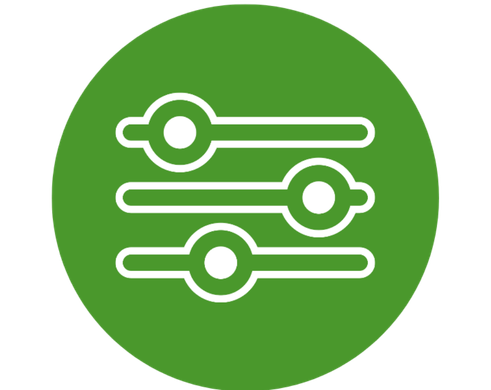
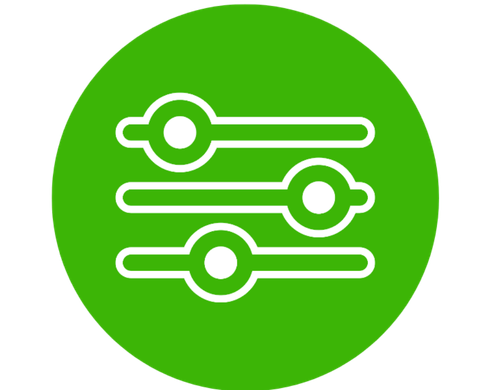
Cambiar el verde

diff --git a/app/src/main/java/com/lasante/tvkiosk/ui/components/SmartProductSearchBar.kt b/app/src/main/java/com/lasante/tvkiosk/ui/components/SmartProductSearchBar.kt
@@ -66,6 +66,7 @@ import coil.compose.AsyncImage
 import coil.request.ImageRequest
 import com.lasante.tvkiosk.data.Product
 import com.lasante.tvkiosk.ui.layout.Tv66Reference
+import com.lasante.tvkiosk.ui.theme.LaSanteGreen
 import com.lasante.tvkiosk.ui.theme.LaSanteText
 import com.lasante.tvkiosk.ui.theme.LaSanteTextSecondary
 import com.lasante.tvkiosk.ui.theme.LaSanteWhite
@@ -75,9 +76,6 @@ import java.text.Normalizer
 import java.util.Locale
 import kotlin.math.roundToInt
 import kotlinx.coroutines.delay
-
-/** Verde del chip de lupa — alineado con VER TODOS / marca (#2FAD11). */
-private val SearchChromeGreen = Color(0xFF2FAD11)
 
 @Immutable
 data class ProductSearchBarMetrics(
@@ -409,7 +407,7 @@ fun SmartProductSearchBar(
                         // Evita que el IME intente enlazarse; el texto lo escribe el teclado virtual.
                         readOnly = true,
                         textStyle = fieldTextStyle,
-                        cursorBrush = SolidColor(SearchChromeGreen),
+                        cursorBrush = SolidColor(LaSanteGreen),
                         modifier = Modifier
                             .fillMaxSize()
                             .focusRequester(focusRequester)
@@ -462,7 +460,7 @@ fun SmartProductSearchBar(
                     .width(metrics.greenWidth)
                     .fillMaxHeight()
                     .clip(greenShape)
-                    .background(SearchChromeGreen)
+                    .background(LaSanteGreen)
                     .clickableWithSound(enabled = enabled) { focusSearchField() },
                 contentAlignment = Alignment.Center,
             ) {

diff --git a/app/src/main/java/com/lasante/tvkiosk/ui/theme/Color.kt b/app/src/main/java/com/lasante/tvkiosk/ui/theme/Color.kt
@@ -2,9 +2,9 @@ package com.lasante.tvkiosk.ui.theme
 
 import androidx.compose.ui.graphics.Color
 
-// === NUEVA PALETA DE COLORES LASANTÉ (Basada en diseños finales) ===
-val LaSanteGreen = Color(0xFF7CB342) // Verde lima/oliva del diseño
-val LaSanteGreenDark = Color(0xFF558B2F)
+// === Paleta La Santé — verde de marca unificado (#2FAD11) ===
+val LaSanteGreen = Color(0xFF2FAD11)
+val LaSanteGreenDark = Color(0xFF2FAD11)
 val LaSanteBackground = Color(0xFFF5F5F5) // Gris muy claro casi blanco
 val LaSanteWhite = Color(0xFFFFFFFF)
 val LaSanteText = Color(0xFF424242)
@@ -18,7 +18,7 @@ val ShelfShadowColor = Color(0x20000000)
 
 // Scrollbar
 val ScrollTrackColor = Color(0xFFEEEEEE)
-val ScrollThumbColor = Color(0xFF8BC34A)
+val ScrollThumbColor = Color(0xFF2FAD11)
 
 // Specialty Colors (Legacy/Compat)
 val SpecialtyDermatologia = Color(0xFF2196F3)
@@ -31,9 +31,9 @@ val SpecialtyPediatria = Color(0xFFE91E63)
 val LaSanteOrange = Color(0xFFFFA205)
 val LaSanteBlue = Color(0xFF172D64)
 
-/** Paleta mock filtro CT (TV66). */
-val FilterGreenStart = Color(0xFFA8C829)
-val FilterGreenEnd = Color(0xFF4B991B)
+/** Filtro CT / botones verdes de UI. */
+val FilterGreenStart = Color(0xFF2FAD11)
+val FilterGreenEnd = Color(0xFF2FAD11)
 val FilterBlueStart = Color(0xFF00193E)
 val FilterBlueEnd = Color(0xFF1F6096)
 val FilterStarGold = Color(0xFFFFB000)

diff --git a/app/src/main/java/com/lasante/tvkiosk/ui/screens/treatments/TreatmentsScreen.kt b/app/src/main/java/com/lasante/tvkiosk/ui/screens/treatments/TreatmentsScreen.kt
@@ -214,7 +214,7 @@ fun TreatmentsScreen(
                             fontWeight = FontWeight.Medium,
                             style = MaterialTheme.typography.bodyMedium.copy(
                                 brush = Brush.horizontalGradient(
-                                    listOf(LaSanteGreen, Color(0xFFA8C829)),
+                                    listOf(LaSanteGreen, LaSanteGreen),
                                 ),
                             ),
                             textAlign = TextAlign.End,

diff --git a/app/src/main/java/com/lasante/tvkiosk/ui/components/ProductPresentationModal.kt b/app/src/main/java/com/lasante/tvkiosk/ui/components/ProductPresentationModal.kt
@@ -520,7 +520,7 @@ private fun ProductDescriptionPanel(
     val corner = if (compact) 18.dp else 20.dp
     val cornerShape = RoundedCornerShape(corner)
     val titleBrush = Brush.horizontalGradient(
-        listOf(LaSanteGreenDark, LaSanteGreen, Color(0xFFA8C829)),
+        listOf(LaSanteGreenDark, LaSanteGreen, LaSanteGreen),
     )
     val titleFontFamily = MaterialTheme.typography.bodyLarge.fontFamily
     // Sombra suave (mock): elevación difusa + leve sesgo arriba/derecha.

diff --git a/app/src/main/java/com/lasante/tvkiosk/ui/components/ProductosEstrellasBadge.kt b/app/src/main/java/com/lasante/tvkiosk/ui/components/ProductosEstrellasBadge.kt
@@ -22,8 +22,8 @@ import androidx.compose.ui.unit.sp
 import com.lasante.tvkiosk.ui.utils.UiSound
 import com.lasante.tvkiosk.ui.utils.clickableWithSound
 
-private val BadgeGreenStart = Color(0xFF6FA320)
-private val BadgeGreenEnd = Color(0xFFA4D23A)
+private val BadgeGreenStart = Color(0xFF2FAD11)
+private val BadgeGreenEnd = Color(0xFF2FAD11)
 
 /** Badge verde “PRODUCTOS ESTRELLAS” (Intro y pantalla de estrellas). */
 @Composable

diff --git a/app/src/main/java/com/lasante/tvkiosk/ui/screens/intro/VitrinaUiImages.kt b/app/src/main/java/com/lasante/tvkiosk/ui/screens/intro/VitrinaUiImages.kt
@@ -44,7 +44,7 @@ object VitrinaUiImages {
             .crossfade(false)
             .memoryCachePolicy(CachePolicy.ENABLED)
             .diskCachePolicy(CachePolicy.ENABLED)
-            .memoryCacheKey("filter_button_v2_512")
-            .diskCacheKey("filter_button_v2_512")
+            .memoryCacheKey("filter_button_v3_2fad11")
+            .diskCacheKey("filter_button_v3_2fad11")
             .build()
 }

diff --git a/app/src/main/java/com/lasante/tvkiosk/ui/screens/intro/SocialNetworkUi.kt b/app/src/main/java/com/lasante/tvkiosk/ui/screens/intro/SocialNetworkUi.kt
@@ -107,7 +107,7 @@ fun SocialNetworkIconButton(
                 } else {
                     Modifier.background(
                         Brush.linearGradient(
-                            colors = listOf(Color(0xFF68BD45), Color(0xFF319D32)),
+                            colors = listOf(Color(0xFF2FAD11), Color(0xFF2FAD11)),
                         ),
                     )
                 },

diff --git a/app/src/main/java/com/lasante/tvkiosk/ui/screens/products/ProductsScreen.kt b/app/src/main/java/com/lasante/tvkiosk/ui/screens/products/ProductsScreen.kt
@@ -1393,7 +1393,7 @@ private fun ProductGridItem(
         else -> 9.sp
     }
     val titleBrush = Brush.horizontalGradient(
-        listOf(LaSanteGreenDark, LaSanteGreen, Color(0xFFA8C829)),
+        listOf(LaSanteGreenDark, LaSanteGreen, LaSanteGreen),
     )
     val (titlePart, strengthPart) = remember(product.name, product.dosisDisplay) {
         val apiDosis = product.dosisDisplay
